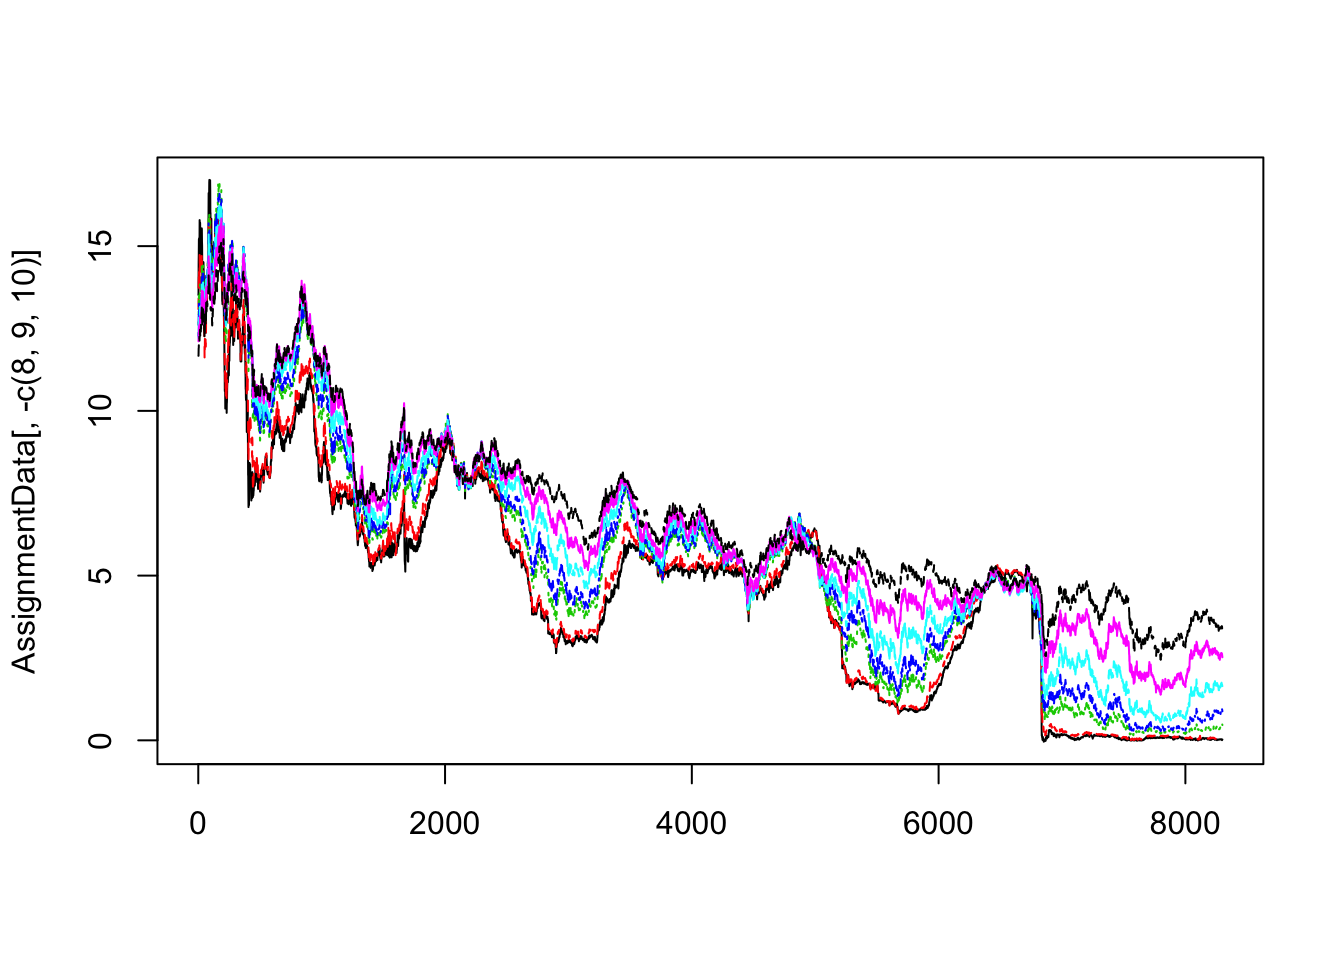
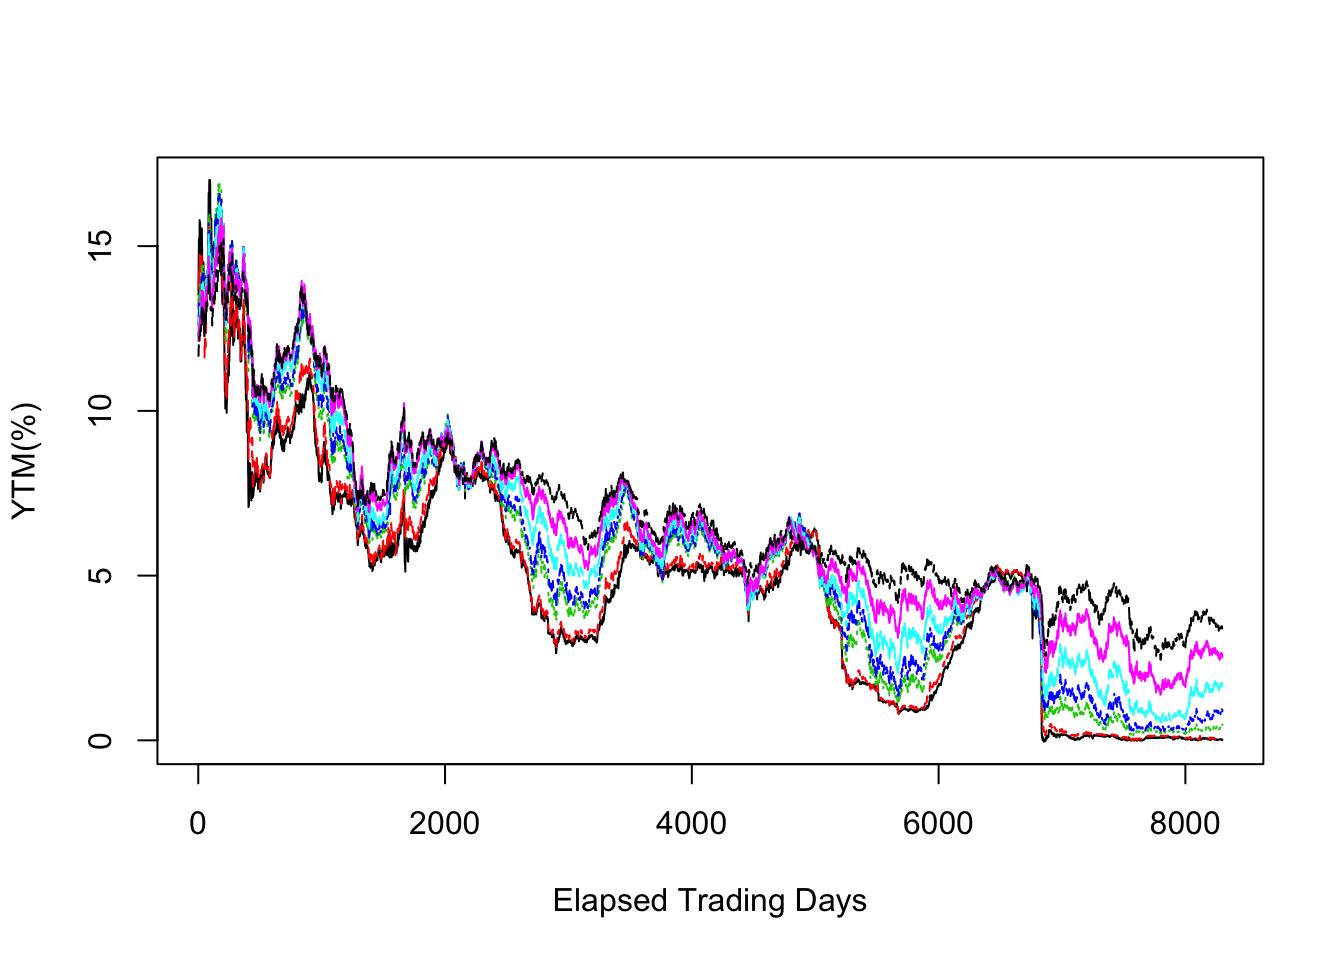
Add Google Analytics ID

Changed region(s): [[0.0, 0.25, 0.0312, 0.7188], [0.4062, 0.9062, 0.6562, 0.9688]]

diff --git a/content/posts/2018-01-15-principal-component-analysis-of-financial-data.html b/content/posts/2018-01-15-principal-component-analysis-of-financial-data.html
@@ -7,17 +7,15 @@ categories:
 tags:
   - PCA
   - TimeSeries
+  - Linear Regression
 slug: principal-component-analysis-of-financial-data
 ---
 
 
 
-<p>Data from the part 30 years regarding yields of US Treasury bonds of different maturities have been collected. In this project, we deliberately explore the data to study correlation effects in linear predictors and the use of PCA to reduce dimensionality. We will be able to create through PCA a two-dimensional tableau and explore historical events in it.</p>
-<p>Read the data and visualize</p>
-<pre class="r"><code>datapath&lt;-&quot;/Users/Orest/Desktop/Statistical Analysis/Final Project&quot;
-AssignmentData&lt;- read.csv(file = paste(datapath,&quot;RegressionAssignmentData2014.csv&quot;,sep=&quot;/&quot;),
-           row.names=1,header=TRUE,sep=&quot;,&quot;)
-head(AssignmentData)</code></pre>
+<p>Data from the past 30 years regarding yields of US Treasury bonds of multiple maturities have been collected. In this project, we deliberately explore the data to study correlation effects in linear predictors and then use PCA to reduce the dimensionality of the problem. We will be able to create through PCA a two-dimensional tableau and explore historical events in it.</p>
+<div id="data" class="section level1">
+<h1>Data</h1>
 <pre><code>##           USGG3M USGG6M USGG2YR USGG3YR USGG5YR USGG10YR USGG30YR  Output1
 ## 1/5/1981   13.52  13.09  12.289   12.28  12.294   12.152   11.672 18.01553
 ## 1/6/1981   13.58  13.16  12.429   12.31  12.214   12.112   11.672 18.09140
@@ -32,23 +30,32 @@ head(AssignmentData)</code></pre>
 ## 1/8/1981      NA         NA
 ## 1/9/1981      NA         NA
 ## 1/12/1981     NA         NA</code></pre>
-<p>The first 7 variables (input variables) are the daily records of the US Treasury yields to maturity.<br />
-Plot the input variables.</p>
-<pre class="r"><code>matplot(AssignmentData[,-c(8,9,10)],type=&#39;l&#39;)</code></pre>
+<p>The first 7 variables (input variables) are the daily records of the US Treasury yields to maturity (%).<br />
+Let’s observe the time trend.</p>
+<pre class="r"><code>head(treasury_data[,1:7])</code></pre>
+<pre><code>##           USGG3M USGG6M USGG2YR USGG3YR USGG5YR USGG10YR USGG30YR
+## 1/5/1981   13.52  13.09  12.289   12.28  12.294   12.152   11.672
+## 1/6/1981   13.58  13.16  12.429   12.31  12.214   12.112   11.672
+## 1/7/1981   14.50  13.90  12.929   12.78  12.614   12.382   11.892
+## 1/8/1981   14.76  14.00  13.099   12.95  12.684   12.352   11.912
+## 1/9/1981   15.20  14.30  13.539   13.28  12.884   12.572   12.132
+## 1/12/1981  15.22  14.23  13.179   12.94  12.714   12.452   12.082</code></pre>
+<pre class="r"><code>matplot(AssignmentData[,-c(8,9,10)],type=&#39;l&#39;, xlab = &quot;Elapsed Trading Days&quot;, ylab = &quot;YTM(%)&quot;)</code></pre>
 <p><img src="/posts/2018-01-15-principal-component-analysis-of-financial-data_files/figure-html/unnamed-chunk-2-1.png" width="672" /></p>
-<p>Plot the input variables together with the output variable.</p>
-<pre class="r"><code>matplot(AssignmentData[,-c(9,10)],type=&#39;l&#39;)</code></pre>
+<p>An unidentified variable is also present in the dataset. It is shown below plotted alongside the yield-to-maturity rates of the treasury bonds.</p>
+<pre class="r"><code>matplot(treasury_data[,-c(9,10)],type=&#39;l&#39;, xlab = &quot;Elapsed Trading Days&quot;, ylab = &quot;YTM(%)&quot;)</code></pre>
 <p><img src="/posts/2018-01-15-principal-component-analysis-of-financial-data_files/figure-html/unnamed-chunk-3-1.png" width="672" /></p>
-<div id="step-2" class="section level1">
-<h1>Step 2</h1>
-<p>Estimate simple regression model with each of the input variables and the output variable given in AssignmentData. Store coefficients for each input variable.</p>
+</div>
+<div id="linear-regression-model-to-predict-output-using-ytm" class="section level1">
+<h1>Linear Regression Model to predict Output using YTM</h1>
+<p>Estimate simple regression model with each of the input variables and the output variable given in the dataset. Store coefficients for each input variable.</p>
 <p>The following code gives an example of the analysis for the first input variable.</p>
-<pre class="r"><code>Input1.linear.Model &lt;- lm(Output1~USGG3M, AssignmentData)
+<pre class="r"><code>Input1.linear.Model &lt;- lm(Output1~USGG3M, treasury_data)
 Coefficients.Input1 &lt;- Input1.linear.Model$coefficients
 summary(Input1.linear.Model)</code></pre>
 <pre><code>## 
 ## Call:
-## lm(formula = Output1 ~ USGG3M, data = AssignmentData)
+## lm(formula = Output1 ~ USGG3M, data = treasury_data)
 ## 
 ## Residuals:
 ##     Min      1Q  Median      3Q     Max 
@@ -73,8 +80,9 @@ summary(Input1.linear.Model)</code></pre>
 <pre class="r"><code>matplot(AssignmentData[,8],type=&quot;l&quot;,xaxt=&quot;n&quot;)
 lines(Input1.linear.Model$fitted.values,col=&quot;red&quot;)</code></pre>
 <p><img src="/posts/2018-01-15-principal-component-analysis-of-financial-data_files/figure-html/unnamed-chunk-5-1.png" width="672" /></p>
-<p>Check relevance of the estimated parameters and the model as a whole, amount of correlation explained.</p>
-<p><strong>Answer:</strong> The intercept and slope are both significant parameters in the linear regression model between the Output variable and the YTM for the 3M Treasury Bill.<br />
+<div id="relevance-of-the-estimated-parameters-and-the-model-as-a-whole-amount-of-correlation-explained." class="section level2">
+<h2>Relevance of the estimated parameters and the model as a whole, amount of correlation explained.</h2>
+<p>The intercept and slope are both significant parameters in the linear regression model between the Output variable and the YTM for the 3M Treasury Bill.<br />
 This is indicated by:<br />
 * p-values - The p-values shown are assiocated with the t-test which evaluates the null hypothesis:<br />
 <span class="math inline">\(H_0\)</span> : Parameter <span class="math inline">\(B_i\)</span> is equal to 0. Since both p-values are close to 0 and below any reasonable significance level, we can reject the null hypothesis and conclude that the two parameters are significant (different from 0.).<br />
@@ -97,8 +105,9 @@ All.Parameters</code></pre>
 ## Intercept -18.063370 -21.085905
 ## Slope       2.786991   3.069561</code></pre>
 </div>
-<div id="step-3" class="section level1">
-<h1>Step 3</h1>
+</div>
+<div id="linear-regression-model-using-output-to-predict-yield" class="section level1">
+<h1>Linear Regression model using Output to predict Yield</h1>
 <p>Fit linear regression models using single output (column 8 Output1) as input and each of the original inputs as outputs. Collect all slopes and intercepts in one table and print this table.</p>
 <pre class="r"><code>All.Linear.Models.Inverse &lt;- apply(AssignmentData[,1:7], 2, function(x) lm(x~AssignmentData$Output1))
 All.Parameters.Inverse &lt;- rbind.data.frame(lapply(All.Linear.Models.Inverse, coefficients))
@@ -112,8 +121,8 @@ All.Parameters.Inverse</code></pre>
 ## Intercept 6.8693554
 ## Slope     0.3047124</code></pre>
 </div>
-<div id="step-4" class="section level1">
-<h1>Step 4</h1>
+<div id="logistic-regression-to-predict-tightening-and-easing-cycles." class="section level1">
+<h1>Logistic Regression to predict tightening and easing cycles.</h1>
 <p>Estimate logistic regression using all inputs and the data on FED tightening and easing cycles.</p>
 <pre class="r"><code>AssignmentDataLogistic&lt;-data.matrix(AssignmentData,rownames.force=&quot;automatic&quot;)</code></pre>
 <p>Prepare the easing-tightening data. Make the easing column equal to 0 during the easing periods and NA otherwise. Make the tightening column equal to 1 during the tightening periods and NA otherwise.</p>
